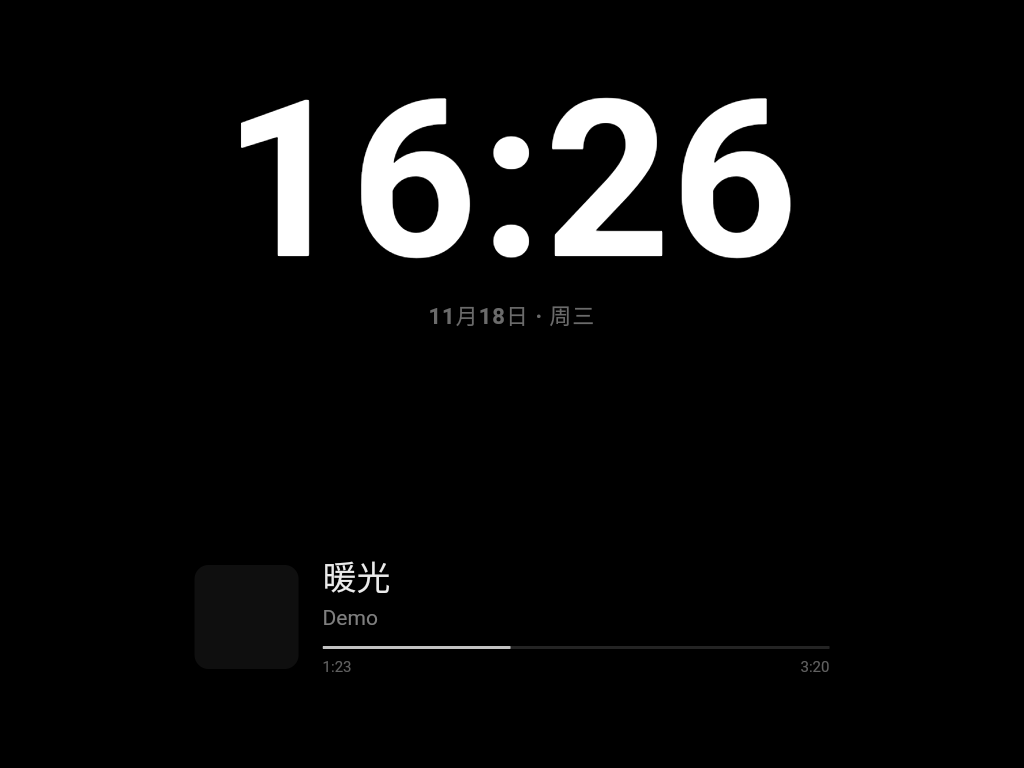
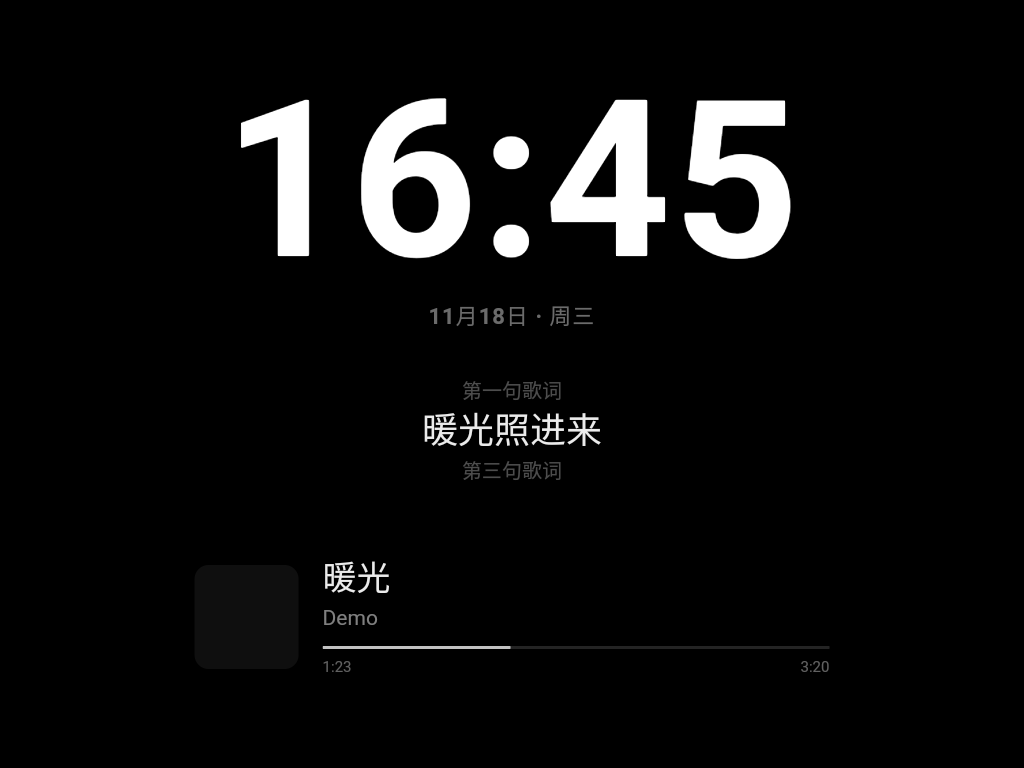
feat(panel): 待机页在时间与「正在播放」之间显示歌词（上下行 + 当前行）；版本 0.7.52/89
- music.js：MusicUI 多导出两个只读方法 lyrics()（{lines,synced}）与 lyricLine()
  （当前行号，纯文本歌词按播放比例估），不改播放状态、不额外拉歌词
- dimscreen.js：新增 paintLyric()，每秒读一次决定画哪三行；暂停/无歌词时
  .dim-lyric 不带 on（display:none），不占位
- index.html：.dim 里新增 #dimLyric（#dimLrPrev/#dimLrNow/#dimLrNext）
- app.css：歌词块走文档流（flex:1 + justify-content:center），避免小窗口上
  绝对定位压住日期行/播放条；.dim.with-music 加 padding-bottom 给底部播放条让位
- 测试：test-ui 新增 11 项（共 516），e2e-dim 新增 4 项（共 26，含「歌词夹在
  时间与播放条之间」的位置断言）
- 版本 0.7.52 / versionCode 89

Changed region(s): [[0.5312, 0.125, 0.7812, 0.3438], [0.4062, 0.5, 0.5938, 0.625]]

diff --git a/tools/e2e-dim.js b/tools/e2e-dim.js
@@ -125,7 +125,10 @@ const httpGet = url => new Promise((resolve, reject) => {
     var d = document.getElementById('mDur'); if (d) d.textContent = '3:20';
     window.MusicUI = {
       isPlaying: function () { return true; },
-      playing: function () { return { title: '暖光', artist: 'Demo', cover: ${JSON.stringify(cover)} }; }
+      playing: function () { return { title: '暖光', artist: 'Demo', cover: ${JSON.stringify(cover)} }; },
+      lyrics: function () { return { synced: true, lines: [
+        { t: 0, text: '第一句歌词' }, { t: 20, text: '暖光照进来' }, { t: 40, text: '第三句歌词' }] }; },
+      lyricLine: function () { return 1; }
     };
     window.DimScreen.paint();
     return true;
@@ -141,7 +144,21 @@ const httpGet = url => new Promise((resolve, reject) => {
   const clockTop2 = await evalJs("document.getElementById('dimTime').getBoundingClientRect().top");
   check(await evalJs("document.getElementById('dim').className.indexOf('with-music') >= 0"), '放歌时 #dim 带上 with-music');
   check(clockTop2 < clockTop - 120, '放歌后时间被抬到上方（让出底部）', 'before ' + Math.round(clockTop) + ' after ' + Math.round(clockTop2));
+  check(await evalJs("document.getElementById('dimLyric').className === 'dim-lyric on'"), '歌词块显示');
+  check(await evalJs("document.getElementById('dimLrNow').textContent === '暖光照进来'"), '当前行进歌词块');
+  check(await evalJs("document.getElementById('dimLrPrev').textContent === '第一句歌词' && document.getElementById('dimLrNext').textContent === '第三句歌词'"), '上下行也显示（次要）');
+  const lyrPos = await evalJs(`(function(){
+    var l = document.getElementById('dimLrPrev').getBoundingClientRect();
+    var l2 = document.getElementById('dimLrNext').getBoundingClientRect();
+    var t = document.getElementById('dimDate').getBoundingClientRect();
+    var n = document.getElementById('dimNow').getBoundingClientRect();
+    return { belowClock: l.top > t.bottom, aboveNow: l2.bottom < n.top, gap: Math.round(n.top - l2.bottom) };
+  })()`);
+  check(lyrPos.belowClock && lyrPos.aboveNow, '歌词在时间与「正在播放」之间', JSON.stringify(lyrPos));
   await shot('dim-2-music.png');
+  await evalJs("window.MusicUI.lyricLine = function () { return 2; }; true");
+  await evalJs("window.DimScreen.paint(); true");
+  check(await evalJs("document.getElementById('dimLrNow').textContent === '第三句歌词'"), '行号推进后歌词跟着换');
 
   /* ---------- ③ 暂停后收起 ---------- */
   console.log('\n③ 暂停后收起');
@@ -149,6 +166,7 @@ const httpGet = url => new Promise((resolve, reject) => {
   const hid = await waitFor("document.getElementById('dimNow').className === 'dim-now'", 4000);
   check(hid, '暂停后自动收起（不用等退出熄屏）');
   check(await evalJs("getComputedStyle(document.getElementById('dimNow')).display === 'none'"), '收起后不占位');
+  check(await evalJs("document.getElementById('dimLyric').className === 'dim-lyric'"), '暂停后歌词一起收起');
 
   /* ---------- ④ 退出熄屏 ---------- */
   console.log('\n④ 退出熄屏');

diff --git a/panel/css/app.css b/panel/css/app.css
@@ -514,7 +514,7 @@ body::before { content: none; }
 }
 .dim.show { display: flex; opacity: 1; }
 /* 没放歌时时间就是整屏唯一的元素，垂直居中；一旦底部有「正在播放」，把时间抬到上方让出位置 */
-.dim.with-music { justify-content: flex-start; padding-top: 9vh; }
+.dim.with-music { justify-content: flex-start; padding-top: 9vh; padding-bottom: 31vh; }
 .dim-clock { text-align: center; }
 .dim-time {
   font-size: 220px; font-weight: 700; letter-spacing: 2px; color: #fff;
@@ -522,6 +522,17 @@ body::before { content: none; }
 }
 .dim-date { margin-top: 6px; font-size: 22px; font-weight: 600; letter-spacing: 1px; color: rgba(255,255,255,.42); }
 /* 正在播放：贴在底部一条，宽度限住，长名字省略号 */
+/* 歌词：介于时间与底部「正在播放」之间的一块，绝对定位所以完全不影响时间的居中/抬升 */
+/* 歌词块走文档流：夹在时间与底部「正在播放」之间，由 flex 自己分配空间，不写死百分比
+ * （小窗口上绝对定位会和日期行/播放条撞在一起） */
+.dim-lyric {
+  display: none; flex: 1 1 auto; flex-direction: column; justify-content: center; align-items: center;
+  width: 76%; max-width: 1000px; text-align: center; overflow: hidden;
+}
+.dim-lyric.on { display: flex; }
+.dim-lr { font-size: 36px; font-weight: 600; line-height: 1.4; color: rgba(255,255,255,.92); transition: color .3s; }
+.dim-lr-soon { font-size: 20px; line-height: 1.5; color: rgba(255,255,255,.3); }
+.dim-lr-soon:empty { display: none; }
 .dim-now { display: none; position: absolute; left: 50%; bottom: 12vh; width: 62%; max-width: 900px; transform: translateX(-50%); align-items: center; }
 .dim-now.on { display: flex; }
 .dim-cover {
@@ -1030,7 +1041,16 @@ body::before { content: none; }
 
 .m-right { flex: 1; min-width: 0; display: flex; flex-direction: column; padding-left: 24px; }
 .m-crumb { display: flex; align-items: center; flex: 0 0 auto; height: 40px; font-size: 15px; color: var(--text-2); }
-.m-crumb .m-back { height: 32px; font-size: 13px; padding: 0 10px 0 4px; margin-right: 12px; border-radius: 10px; }
+/* 返回按钮：和面板其它控件同一套「暗色幽灵胶囊」，不用浏览器默认的灰底按钮
+   （Chromium 默认 button 是亮灰底黑字，在暗色界面上格外扎眼） */
+.m-crumb .m-back {
+  display: inline-flex; align-items: center; height: 30px; padding: 0 12px 0 9px;
+  margin-right: 12px; border-radius: 15px; font-size: 13px;
+  background: rgba(var(--surf), .06); border: 1px solid rgba(var(--surf), .14);
+  color: var(--text-2);
+}
+.m-crumb .m-back svg { width: 18px; height: 18px; margin-right: 7px; flex: 0 0 auto; }
+.m-crumb .m-back:active { transform: scale(.95); background: rgba(var(--surf), .13); }
 .m-crumb-t { white-space: nowrap; overflow: hidden; text-overflow: ellipsis; font-weight: 500; }
 .m-list {
   flex: 1; min-height: 0; overflow-y: auto; -webkit-overflow-scrolling: touch;

diff --git a/panel/js/dimscreen.js b/panel/js/dimscreen.js
@@ -129,10 +129,37 @@
     mirrorProgress();
   }
 
+  /* 歌词：时间与底部「正在播放」之间那块。只读 MusicUI.lyrics() / lyricLine()，
+   * 当前行加下一行（上一行也有就给），文字没变就不动 DOM。 */
+  function paintLyric() {
+    var box = $('dimLyric');
+    if (!box) return;
+    var mu = window.MusicUI;
+    var L = mu && mu.lyrics ? mu.lyrics() : null;
+    var lines = L && L.lines ? L.lines : null;
+    if (!lines || !lines.length || !musicPlaying()) {
+      if (box.className !== 'dim-lyric') box.className = 'dim-lyric';
+      return;
+    }
+    var idx = mu.lyricLine ? mu.lyricLine() : -1;
+    if (idx < 0) idx = 0;
+    if (idx >= lines.length) idx = lines.length - 1;
+    var cur = $('dimLrNow');
+    var prev = $('dimLrPrev');
+    var next = $('dimLrNext');
+    if (cur && cur.textContent !== lines[idx].text) cur.textContent = lines[idx].text;
+    var ptxt = idx > 0 ? lines[idx - 1].text : '';
+    var ntxt = idx + 1 < lines.length ? lines[idx + 1].text : '';
+    if (prev && prev.textContent !== ptxt) prev.textContent = ptxt;
+    if (next && next.textContent !== ntxt) next.textContent = ntxt;
+    if (box.className !== 'dim-lyric on') box.className = 'dim-lyric on';
+  }
+
   function paint() {
     paintDate();
     paintPlaceholder();
     paintMusic();
+    paintLyric();
   }
 
   function show() {
@@ -141,12 +168,15 @@
     timer = setInterval(function () {
       paintDate();
       paintMusic();
+      paintLyric();
     }, 1000);
   }
 
   function hide() {
     if (timer !== null) { clearInterval(timer); timer = null; }
     setNowPlaying(false);
+    var lb = $('dimLyric');
+    if (lb) lb.className = 'dim-lyric';
   }
 
   window.DimScreen = {

diff --git a/panel/js/music.js b/panel/js/music.js
@@ -2143,6 +2143,9 @@
     volume: function () { return Math.round(S.vol * 100); },
     setVolume: function (pct) { setVol(clamp(num(pct, 70) / 100, 0, 1)); },
     isPlaying: function () { return !!(S.audio && S.audio.src && !S.audio.paused); },
+    /* 待机页用：当前歌词与当前行号，纯只读（不改播放状态、不触发拉取） */
+    lyrics: function () { return S.lyrics; },
+    lyricLine: function () { return lyricIdxNow(); },
     openAll: function () { open(true); openLibView(); },
     libInfo: function () { return { view: S.view, src: S.src, loaded: S.lib.items.length, total: S.lib.total, randLeft: S.randQ.length, hist: S.hist.length } }
   };

diff --git a/panel/index.html b/panel/index.html
@@ -93,6 +93,11 @@
       <div class="dim-time" id="dimTime">--:--</div>
       <div class="dim-date" id="dimDate"></div>
     </div>
+    <div class="dim-lyric" id="dimLyric">
+      <div class="dim-lr-soon" id="dimLrPrev"></div>
+      <div class="dim-lr" id="dimLrNow"></div>
+      <div class="dim-lr-soon" id="dimLrNext"></div>
+    </div>
     <div class="dim-now" id="dimNow">
       <div class="dim-cover" id="dimCover">
         <span class="dim-cover-ph" id="dimCoverPh"></span>
